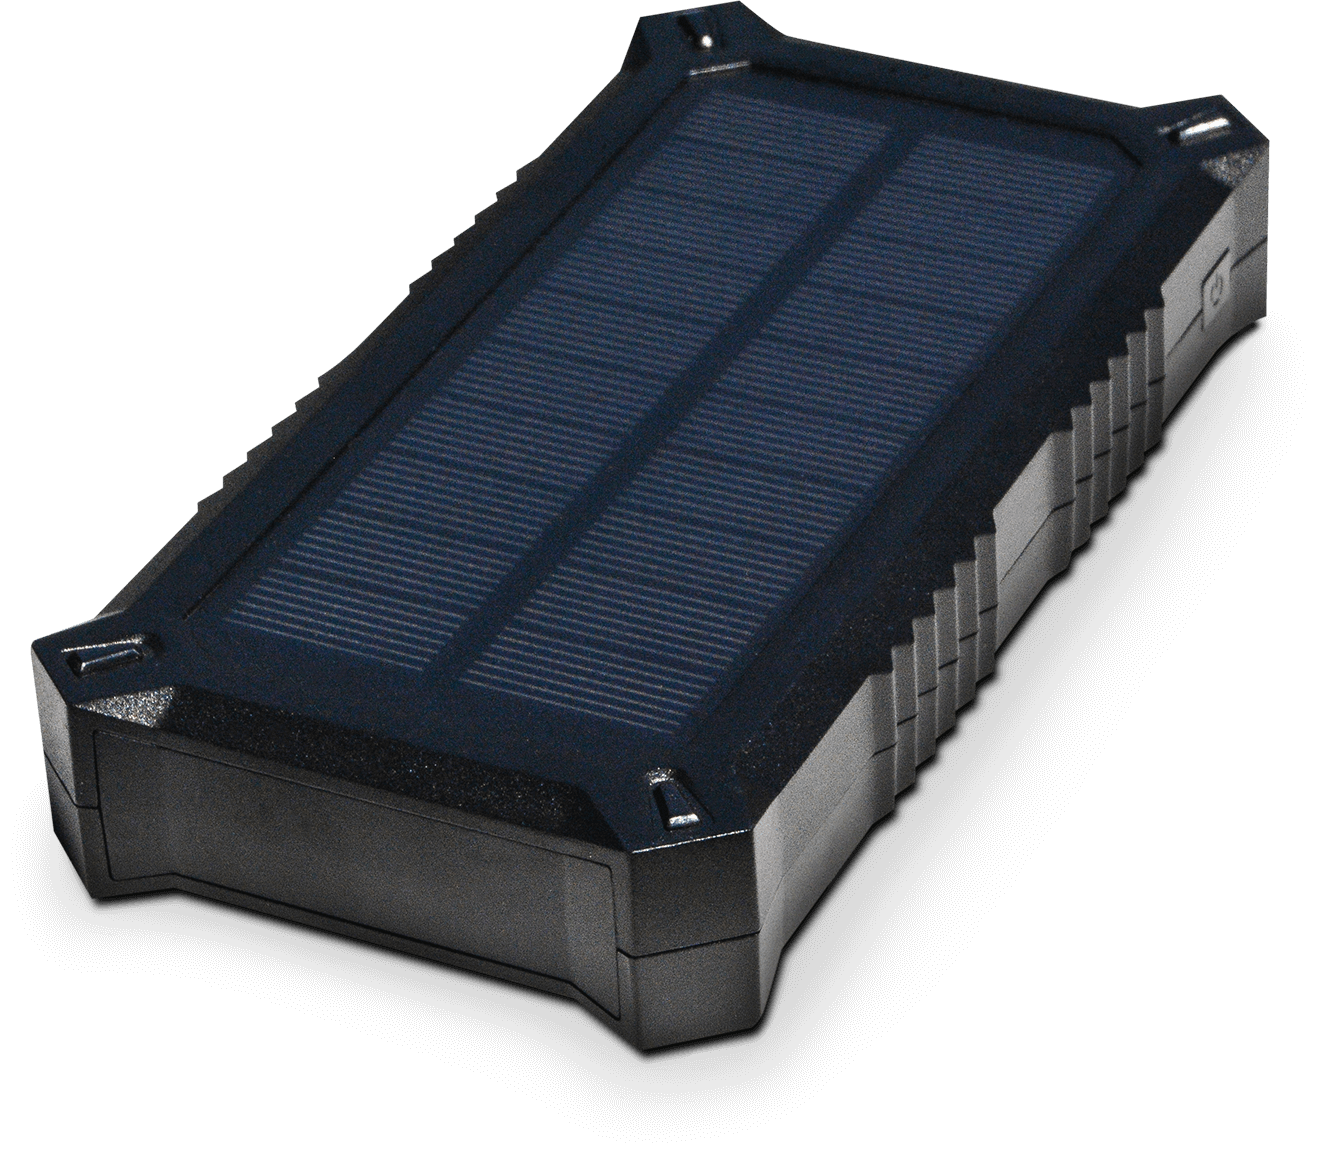
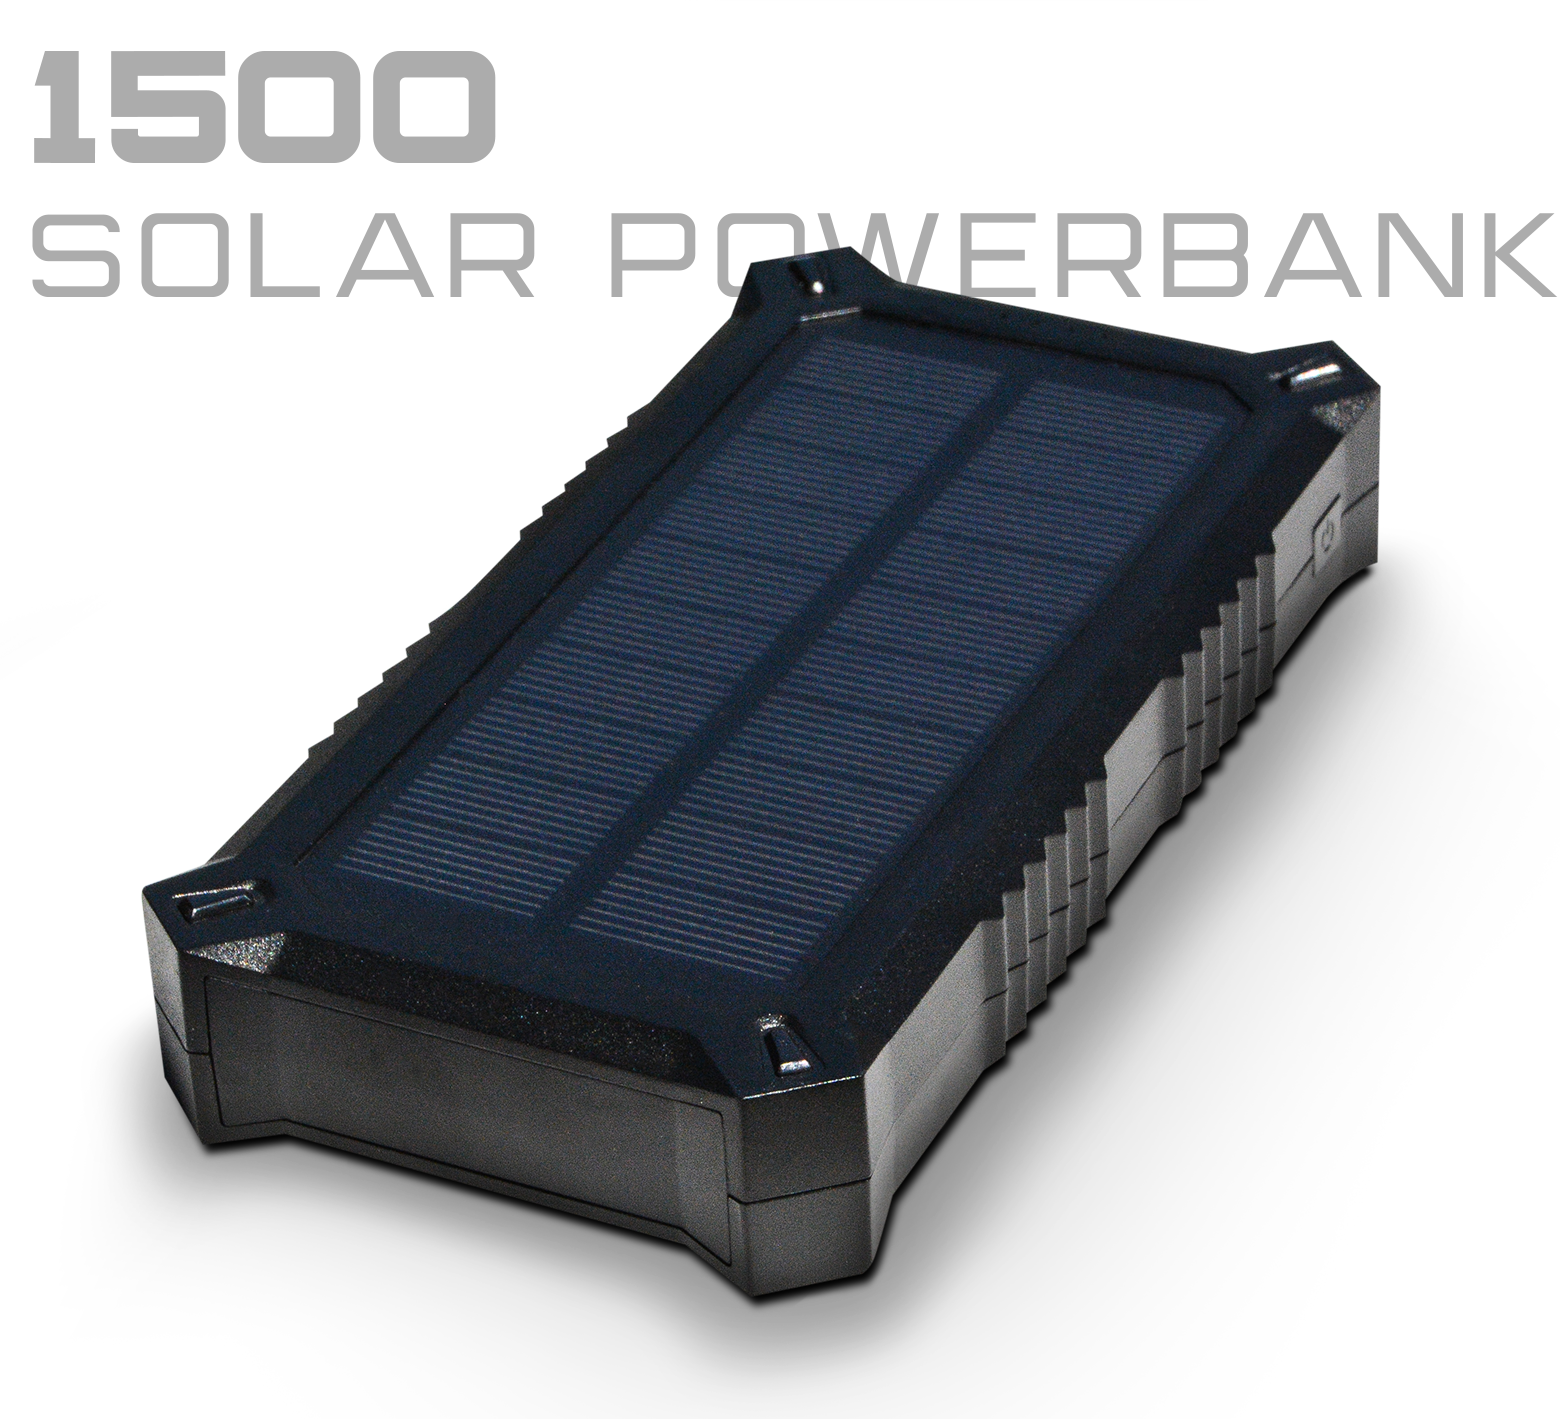
tung commit

diff --git a/powerbank.html b/powerbank.html
@@ -5,12 +5,122 @@
     <meta name="viewport"
           content="width=device-width, user-scalable=no, initial-scale=1.0, maximum-scale=1.0, minimum-scale=1.0">
     <meta http-equiv="X-UA-Compatible" content="ie=edge">
+    <link rel="stylesheet" href="https://cdnjs.cloudflare.com/ajax/libs/font-awesome/4.7.0/css/font-awesome.min.css">
     <link rel="stylesheet" href="css/bootstrap.min.css">
+    <link rel="stylesheet" href="css/style.css">
     <title>powerbank page</title>
 </head>
 <body>
+<main>
+    <div class="section-one">
+        <img src="img/powerbank/1.png" alt="">
+        <div class="container">
+            <h1 class="product-watt">1500mAh</h1>
+            <span class="product-name" >Solar Power Bank</span>
+            <div class="powerbankSty2-body">
+                <p class="powerbankSty2-desc">
+                    Always on the go, but battery always low? No need to worry about your devices running out of power
+                    with the Renogy 15000mAH solar power pack! Water-resistant, shock-resistant, and dust-proof, this
+                    portable battery bank was made for everyday adventurers. This lightweight pack conveniently features
+                    two USB charging ports so that you can charge two devices simultaneously. Attach this compact
+                    battery to your backpack with the included carabiner and travel worry-free on your next trip.
+                </p>
+                <div class="powerbankSty2-btn">
+                    <button class="btn btn-lg btn-df"><img src="img/icons/ico-plus.png" alt=""> <span>Learn More</span></button>
+                    <button class="btn btn-lg btn-df btn-buynow"><img src="img/icons/ico-bag.png" alt=""> <span>Buy Now</span></button>
+                </div>
+            </div>
+        </div>
+    </div>
 
 
+    <div class="powerbankSty3">
+        <div class="powerbankSty3-video">
+            <img class="img-100" src="img/powerbank/2.png" alt="">
+        </div>
+    </div>
+
+
+    <div class="powerbankSty4">
+        <div class="powerbankSty4-heading">
+            <div class="container">
+                <span>Design and Display</span>
+                <h3>It’s all Power.</h3>
+            </div>
+            <div class="powerbankSty4-img">
+                <!--<img src="img/powerbank/3.jpg" alt="">-->
+            </div>
+            <div class="powerbankSty4-list">
+                <div class="container">
+                    <ul>
+                        <li>
+                            High capacity lithium battery can be recharged via solar or USB.
+                        </li>
+                        <li>
+                            Compact size and minimal weight make the battery ideal for long treks.
+                        </li>
+                        <li>
+                            Dual USB ports conveniently allow for devices to charge simultaneously.
+                        </li>
+                        <li>
+                            Optimized for the outdoors, the charger is water-resistant,
+                            shock-resistant, and dust-proof.
+                        </li>
+                        <li>
+                            Built-in LED light for emergencies
+                        </li>
+                    </ul>
+                </div>
+            </div>
+            <div class="powerbankSty4-img2">
+                <img src="img/powerbank/4.png" alt="">
+            </div>
+        </div>
+    </div>
+    <div class="powerbankSty5">
+        <div class="container">
+            <h2>
+                Dual USB ports
+            </h2>
+        </div>
+        <div class="powerbankSty5-img">
+            <!--<img src="img/powerbank/5.png" alt="">-->
+        </div>
+        <div class="powerbankSty5-img2">
+            <img class="img-100" src="img/powerbank/6.jpg" alt="">
+        </div>
+    </div>
+    <!--cái này giống cái menu em chưa biết nó để làm gì ?-->
+    <div class="powerbankSty6">
+        <div class="container">
+            <h2>Description</h2>
+            <p>
+                Always on the go, but battery always low? No need to worry about your devices running out of power with
+                the
+                Renogy 15000mAH solar power pack! Water-resistant, shock-resistant, and dust-proof, this portable
+                battery
+                bank was made for everyday adventurers. This lightweight pack conveniently features two USB charging
+                ports
+                so that you can charge two devices simultaneously. Attach this compact battery to your backpack with the
+                included carabiner and travel worry-free on your next trip.
+                If you have any questions regarding this product, please call us at 1 (800) 330-8678 or email
+                sales@renogy.com.
+            </p>
+        </div>
+        <div class="powerbankSty6-video">
+            <img class="img-100" src="img/powerbank/7.jpg" alt="">
+        </div>
+
+        <div class="powerbankSty7">
+            <div class="powerbankSty7-btn text-center">
+                <div class="container">
+                    <button class="btn">Buy Now</button>
+                    <button class="btn">AS LOW AS $2.31/mo <br> <span>(click here for more details)</span></button>
+                </div>
+            </div>
+        </div>
+    </div>
+</main>
 
 </body>
 </html>

diff --git a/css/style.css b/css/style.css
@@ -1,0 +1,54 @@
+body{
+    color: #242424;
+}
+img{
+    width: 70%;
+}
+.img-100{
+    width: 100%;
+}
+.section-one{
+    text-align: center;
+}
+.section-one h1.product-watt{
+    font-size: 118px;
+    color: #1ac0e5;
+    margin: 50px auto 0 auto;
+}
+.section-one .product-name{
+    font-size: 52px;
+}
+.section-one .product-desc{
+    font-size: 22px;
+    max-width: 1120px;
+    margin: auto;
+    line-height: 41.5px;
+    text-align: center;
+}
+.powerbankSty2-body{
+    margin-top: 40px;
+}
+.btn-df{
+    font-size: 44.12px;
+    color: white;
+    background: #1ac0e5;
+}
+.btn-buynow{
+    background: #a6ce39;
+}
+.btn-df img{
+    width: 47px;
+}
+.btn-df img, .btn-df span{
+    display: inline-block;
+    vertical-align: middle;
+}
+.powerbankSty2-btn{
+    margin-top: 130px;
+}
+
+@media (min-width: 1200px) {
+    .container {
+        width: 1470px;
+    }
+}
